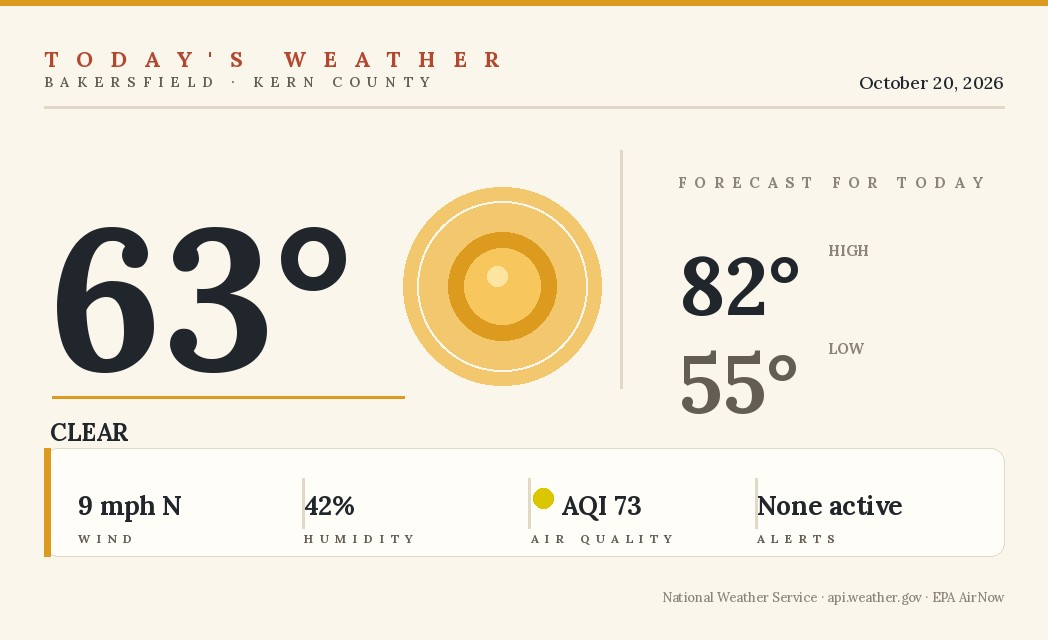
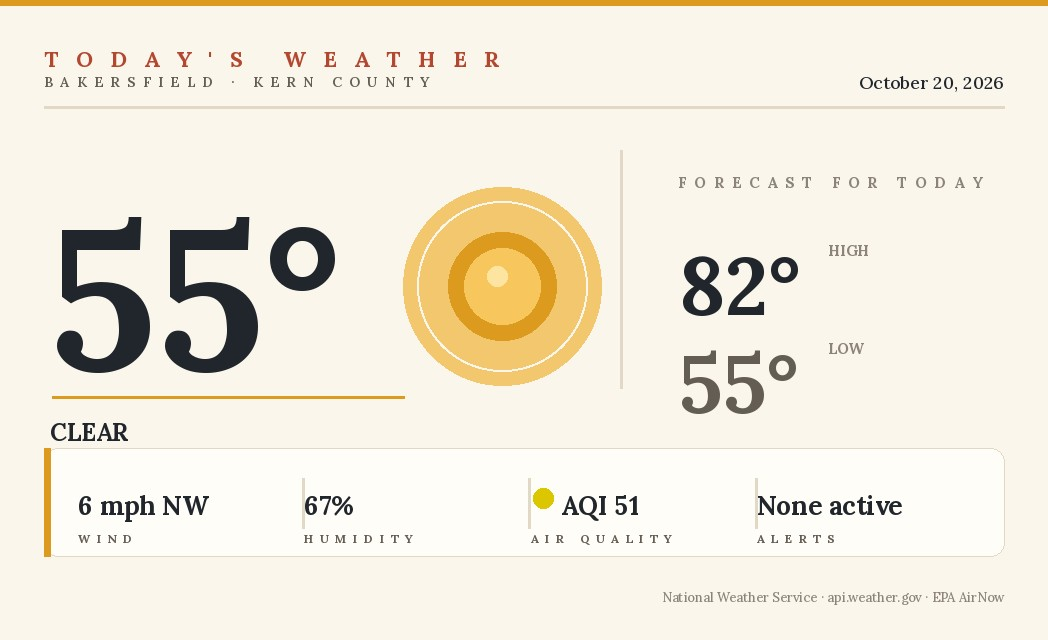
build: 2026-10-20 artifacts [skip ci]

diff --git a/email/2026-10-20/brief.html b/email/2026-10-20/brief.html
@@ -24,7 +24,7 @@
     <p style="margin:8px 0 2px;font-family:'Lora', Georgia, 'Times New Roman', serif;font-size:18px;color:#20262C"><a href="https://bakersfieldbrief.com/overnight/" style="color:#20262C;text-decoration:none">What happened overnight: Standoff</a></p>
     <p style="margin:2px 0 10px;font-family:'Public Sans', Arial, Helvetica, sans-serif;font-size:12px;color:#57504A">31 incidents tracked overnight · locations generalized &nbsp;<a href="https://bakersfieldbrief.com/overnight/" style="display:inline-block;background:#B3472F;color:#ffffff;font-family:'Barlow Condensed', 'Arial Narrow', Arial, sans-serif;font-size:12px;font-weight:600;letter-spacing:1px;text-transform:uppercase;text-decoration:none;padding:6px 14px;border-radius:4px">Full Report</a></p>
     <table role="presentation" width="100%" cellpadding="0" cellspacing="0" style="margin:12px 0 4px;background:#F1EADA;border:1px solid #E3DBC8;border-radius:6px"><tr><td style="padding:12px 14px 2px"><p style="margin:0;font-family:'Lora', Georgia, 'Times New Roman', serif;font-size:28px;line-height:1.15;color:#20262C"><strong>31</strong><span style="font-family:'Public Sans', Arial, Helvetica, sans-serif;font-size:14px;color:#57504A"> calls while Kern slept</span></p><p style="margin:3px 0 0;font-family:'Courier New', Courier, monospace;font-size:11px;color:#57504A">7 PM Sunday to 7 AM Monday, Oct 19</p><p style="margin:12px 0 0;font-family:'Barlow Condensed', 'Arial Narrow', Arial, sans-serif;font-size:11px;font-weight:600;letter-spacing:2px;text-transform:uppercase;color:#B3472F">Calls by type, most serious first</p><table role="presentation" width="100%" cellpadding="0" cellspacing="0" style="margin:4px 0 0"><tr><td style="padding:7px 0 7px;border-top:1px solid #E3DBC8;width:42px;font-family:'Lora', Georgia, 'Times New Roman', serif;font-size:16px;font-weight:700;color:#20262C;vertical-align:top">5</td><td style="padding:7px 0 7px;border-top:1px solid #E3DBC8;font-family:'Public Sans', Arial, Helvetica, sans-serif;font-size:13px;line-height:1.4;color:#20262C;vertical-align:top">Weapons and assaults</td></tr><tr><td style="padding:7px 0 7px;border-top:1px solid #E3DBC8;width:42px;font-family:'Lora', Georgia, 'Times New Roman', serif;font-size:16px;font-weight:700;color:#20262C;vertical-align:top">9</td><td style="padding:7px 0 7px;border-top:1px solid #E3DBC8;font-family:'Public Sans', Arial, Helvetica, sans-serif;font-size:13px;line-height:1.4;color:#20262C;vertical-align:top">Fires</td></tr><tr><td style="padding:7px 0 7px;border-top:1px solid #E3DBC8;width:42px;font-family:'Lora', Georgia, 'Times New Roman', serif;font-size:16px;font-weight:700;color:#20262C;vertical-align:top">9</td><td style="padding:7px 0 7px;border-top:1px solid #E3DBC8;font-family:'Public Sans', Arial, Helvetica, sans-serif;font-size:13px;line-height:1.4;color:#20262C;vertical-align:top">Crashes and traffic</td></tr><tr><td style="padding:7px 0 7px;border-top:1px solid #E3DBC8;width:42px;font-family:'Lora', Georgia, 'Times New Roman', serif;font-size:16px;font-weight:700;color:#20262C;vertical-align:top">2</td><td style="padding:7px 0 7px;border-top:1px solid #E3DBC8;font-family:'Public Sans', Arial, Helvetica, sans-serif;font-size:13px;line-height:1.4;color:#20262C;vertical-align:top">Medical and overdose</td></tr><tr><td style="padding:7px 0 7px;border-top:1px solid #E3DBC8;width:42px;font-family:'Lora', Georgia, 'Times New Roman', serif;font-size:16px;font-weight:700;color:#20262C;vertical-align:top">1</td><td style="padding:7px 0 7px;border-top:1px solid #E3DBC8;font-family:'Public Sans', Arial, Helvetica, sans-serif;font-size:13px;line-height:1.4;color:#20262C;vertical-align:top">Suspicious activity</td></tr><tr><td style="padding:7px 0 7px;border-top:1px solid #E3DBC8;width:42px;font-family:'Lora', Georgia, 'Times New Roman', serif;font-size:16px;font-weight:700;color:#20262C;vertical-align:top">5</td><td style="padding:7px 0 7px;border-top:1px solid #E3DBC8;font-family:'Public Sans', Arial, Helvetica, sans-serif;font-size:13px;line-height:1.4;color:#20262C;vertical-align:top">Other calls<br><span style="font-size:11px;color:#57504A">2 court order, 1 standoff, 1 airport security, 1 incident</span></td></tr></table><p style="margin:12px 0 10px"><a href="https://bakersfieldbrief.com/overnight/" style="display:inline-block;background:#B3472F;color:#ffffff;font-family:'Barlow Condensed', 'Arial Narrow', Arial, sans-serif;font-size:12px;font-weight:600;letter-spacing:1px;text-transform:uppercase;text-decoration:none;padding:8px 16px;border-radius:4px">Read the full overnight log</a></p></td></tr></table>
-    
+    <p style="margin:6px 0 0;font-family:'Public Sans', Arial, Helvetica, sans-serif;font-size:13px;line-height:1.55;color:#20262C">The night&#x27;s most serious call ended without anyone getting hurt. Officers responded to a report of a man holding a knife in his left hand who would not cooperate with commands. He wasn&#x27;t advancing on anyone, but he stayed armed and refused to put the weapon down, so supervisors set up command and held the scene instead of moving in.</p><p style="margin:6px 0 0;font-family:'Public Sans', Arial, Helvetica, sans-serif;font-size:13px;line-height:1.55;color:#20262C">About 35 minutes later, officers closed in and took him into custody. Charges including assault with a deadly weapon, criminal threats and child endangerment were requested. Earlier in the evening, airport police cleared the terminal at Meadows Field after a report of a possible firearm on the property.</p><p style="margin:6px 0 0;font-family:'Public Sans', Arial, Helvetica, sans-serif;font-size:13px;line-height:1.55;color:#20262C">A man in a black hoodie and black shorts was seen heading toward the employee parking area below the front of the terminal. Officers held the terminal while they searched and reported all channels clear within a few minutes. Elsewhere around the county, a caller on Pond Road reported about five people firing guns into the air, with three vehicles described leaving the area — a gray Volkswagen, a black truck and a red Chevrolet.</p><p style="margin:6px 0 0;font-family:'Public Sans', Arial, Helvetica, sans-serif;font-size:13px;line-height:1.55;color:#20262C">Crews went to Bliss and Texas streets for a mini-bike against a vehicle with possibly two patients; Engine 6 found one person down in the roadway and staged incoming units while medics went to work. On Center Street in east Bakersfield, a caller reported a man hitting windows with a machete he kept in his vehicle; he was described as 35 years old and believed to be under the influence of alcohol. Fires kept crews moving all night — a U-Haul on Lake Street, a vehicle on Mayer Avenue, a patch of grass and brush larger than a car near Alfred Harrell Highway, and a structure fire call after 4 a.m.</p><p style="margin:6px 0 0;font-family:'Public Sans', Arial, Helvetica, sans-serif;font-size:13px;line-height:1.55;color:#20262C">The log also included a pair of court order calls that turned up no violations, a two-vehicle crash that left the roadway blocked, a Nissan crash on Harris Road, an assault on California Avenue involving a victim in a wheelchair, and a suspected DUI driver who tried to run from a crash before witnesses held him on the sidewalk.</p>
   </td></tr></table>
 </td></tr>
 
@@ -33,7 +33,7 @@
   <table role="presentation" width="100%" cellpadding="0" cellspacing="0" style="margin:14px 0;background:#FFFDF7;border:1px solid #E3DBC8;border-left:4px solid #DC9A1F;border-radius:6px;box-shadow:0 1px 2px rgba(32,38,28,.07), 0 8px 24px rgba(32,38,28,.06)"><tr><td style="padding:14px 16px">
     <table role="presentation" cellpadding="0" cellspacing="0" style="margin:0 0 6px"><tr><td style="width:26px;border-top:2px solid #DC9A1F;font-size:1px;line-height:1px">&nbsp;</td><td style="padding-left:8px;font-family:'Barlow Condensed', 'Arial Narrow', Arial, sans-serif;font-size:14px;font-weight:600;letter-spacing:2px;text-transform:uppercase;color:#B3472F">Today&#x27;s Weather</td></tr></table>
     <table role="presentation" width="100%" cellpadding="0" cellspacing="0" style="margin:8px 0 12px;border:1px solid #E3DBC8;border-radius:6px;overflow:hidden"><tr><td><img src="https://bakersfieldbrief.com/assets/img/weather-card.jpg" width="100%" alt="Today's weather for Bakersfield &amp; Kern County" style="display:block;width:100%;height:auto;border:0"></td></tr></table>
-    <p style="margin:0;font-family:'Lora', Georgia, 'Times New Roman', serif;font-size:15px;line-height:1.5;color:#20262C">Expect a high near 82° and a low around 55° tonight. It is currently 63° at Meadows Field (KBFL). No active weather alerts for Kern County. Air quality is 73 — moderate.</p>
+    <p style="margin:0;font-family:'Lora', Georgia, 'Times New Roman', serif;font-size:15px;line-height:1.5;color:#20262C">Expect a high near 82 degrees today and a low around 55 tonight. It&#x27;s currently 55 at Meadows Field. No active weather alerts are in effect for Kern County, and air quality is moderate at 51 — a decent day to be outside, though sensitive folks may want to keep an eye on it as the afternoon warms up. No active fires are being reported in the county this morning.</p>
   </td></tr></table>
 </td></tr>
 
@@ -42,7 +42,7 @@
 <tr><td style="padding:2px 20px">
   <table role="presentation" width="100%" cellpadding="0" cellspacing="0" style="margin:14px 0;background:#FFFDF7;border:1px solid #E3DBC8;border-left:4px solid #B3472F;border-radius:6px;box-shadow:0 1px 2px rgba(32,38,28,.07), 0 8px 24px rgba(32,38,28,.06)"><tr><td style="padding:14px 16px">
     <table role="presentation" cellpadding="0" cellspacing="0" style="margin:0 0 6px"><tr><td style="width:26px;border-top:2px solid #DC9A1F;font-size:1px;line-height:1px">&nbsp;</td><td style="padding-left:8px;font-family:'Barlow Condensed', 'Arial Narrow', Arial, sans-serif;font-size:14px;font-weight:600;letter-spacing:2px;text-transform:uppercase;color:#B3472F">Something Good</td></tr></table>
-    <p style="margin:6px 0 0;font-family:'Public Sans', Arial, Helvetica, sans-serif;font-size:13px;line-height:1.55;color:#20262C">A bright spot this week: <strong>Bluey&#x27;s Big Play</strong> at Mechanics Bank Arena on Tue, Oct 27.</p>
+    <p style="margin:6px 0 0;font-family:'Public Sans', Arial, Helvetica, sans-serif;font-size:13px;line-height:1.55;color:#20262C">Honor Flight Kern County&#x27;s return to Meadows Field was the kind of homecoming worth pausing for — veterans stepping off the plane to friends, family and community members who turned out to welcome them back. For Lowell Tallon, the trip doubled as a family reunion in the capital, with both his son and daughter alongside him at the memorials. After a cancellation that stung the whole program, this one landed exactly the way it should.</p>
   </td></tr></table>
 </td></tr>
 

diff --git a/email/latest/brief.html b/email/latest/brief.html
@@ -24,7 +24,7 @@
     <p style="margin:8px 0 2px;font-family:'Lora', Georgia, 'Times New Roman', serif;font-size:18px;color:#20262C"><a href="https://bakersfieldbrief.com/overnight/" style="color:#20262C;text-decoration:none">What happened overnight: Standoff</a></p>
     <p style="margin:2px 0 10px;font-family:'Public Sans', Arial, Helvetica, sans-serif;font-size:12px;color:#57504A">31 incidents tracked overnight · locations generalized &nbsp;<a href="https://bakersfieldbrief.com/overnight/" style="display:inline-block;background:#B3472F;color:#ffffff;font-family:'Barlow Condensed', 'Arial Narrow', Arial, sans-serif;font-size:12px;font-weight:600;letter-spacing:1px;text-transform:uppercase;text-decoration:none;padding:6px 14px;border-radius:4px">Full Report</a></p>
     <table role="presentation" width="100%" cellpadding="0" cellspacing="0" style="margin:12px 0 4px;background:#F1EADA;border:1px solid #E3DBC8;border-radius:6px"><tr><td style="padding:12px 14px 2px"><p style="margin:0;font-family:'Lora', Georgia, 'Times New Roman', serif;font-size:28px;line-height:1.15;color:#20262C"><strong>31</strong><span style="font-family:'Public Sans', Arial, Helvetica, sans-serif;font-size:14px;color:#57504A"> calls while Kern slept</span></p><p style="margin:3px 0 0;font-family:'Courier New', Courier, monospace;font-size:11px;color:#57504A">7 PM Sunday to 7 AM Monday, Oct 19</p><p style="margin:12px 0 0;font-family:'Barlow Condensed', 'Arial Narrow', Arial, sans-serif;font-size:11px;font-weight:600;letter-spacing:2px;text-transform:uppercase;color:#B3472F">Calls by type, most serious first</p><table role="presentation" width="100%" cellpadding="0" cellspacing="0" style="margin:4px 0 0"><tr><td style="padding:7px 0 7px;border-top:1px solid #E3DBC8;width:42px;font-family:'Lora', Georgia, 'Times New Roman', serif;font-size:16px;font-weight:700;color:#20262C;vertical-align:top">5</td><td style="padding:7px 0 7px;border-top:1px solid #E3DBC8;font-family:'Public Sans', Arial, Helvetica, sans-serif;font-size:13px;line-height:1.4;color:#20262C;vertical-align:top">Weapons and assaults</td></tr><tr><td style="padding:7px 0 7px;border-top:1px solid #E3DBC8;width:42px;font-family:'Lora', Georgia, 'Times New Roman', serif;font-size:16px;font-weight:700;color:#20262C;vertical-align:top">9</td><td style="padding:7px 0 7px;border-top:1px solid #E3DBC8;font-family:'Public Sans', Arial, Helvetica, sans-serif;font-size:13px;line-height:1.4;color:#20262C;vertical-align:top">Fires</td></tr><tr><td style="padding:7px 0 7px;border-top:1px solid #E3DBC8;width:42px;font-family:'Lora', Georgia, 'Times New Roman', serif;font-size:16px;font-weight:700;color:#20262C;vertical-align:top">9</td><td style="padding:7px 0 7px;border-top:1px solid #E3DBC8;font-family:'Public Sans', Arial, Helvetica, sans-serif;font-size:13px;line-height:1.4;color:#20262C;vertical-align:top">Crashes and traffic</td></tr><tr><td style="padding:7px 0 7px;border-top:1px solid #E3DBC8;width:42px;font-family:'Lora', Georgia, 'Times New Roman', serif;font-size:16px;font-weight:700;color:#20262C;vertical-align:top">2</td><td style="padding:7px 0 7px;border-top:1px solid #E3DBC8;font-family:'Public Sans', Arial, Helvetica, sans-serif;font-size:13px;line-height:1.4;color:#20262C;vertical-align:top">Medical and overdose</td></tr><tr><td style="padding:7px 0 7px;border-top:1px solid #E3DBC8;width:42px;font-family:'Lora', Georgia, 'Times New Roman', serif;font-size:16px;font-weight:700;color:#20262C;vertical-align:top">1</td><td style="padding:7px 0 7px;border-top:1px solid #E3DBC8;font-family:'Public Sans', Arial, Helvetica, sans-serif;font-size:13px;line-height:1.4;color:#20262C;vertical-align:top">Suspicious activity</td></tr><tr><td style="padding:7px 0 7px;border-top:1px solid #E3DBC8;width:42px;font-family:'Lora', Georgia, 'Times New Roman', serif;font-size:16px;font-weight:700;color:#20262C;vertical-align:top">5</td><td style="padding:7px 0 7px;border-top:1px solid #E3DBC8;font-family:'Public Sans', Arial, Helvetica, sans-serif;font-size:13px;line-height:1.4;color:#20262C;vertical-align:top">Other calls<br><span style="font-size:11px;color:#57504A">2 court order, 1 standoff, 1 airport security, 1 incident</span></td></tr></table><p style="margin:12px 0 10px"><a href="https://bakersfieldbrief.com/overnight/" style="display:inline-block;background:#B3472F;color:#ffffff;font-family:'Barlow Condensed', 'Arial Narrow', Arial, sans-serif;font-size:12px;font-weight:600;letter-spacing:1px;text-transform:uppercase;text-decoration:none;padding:8px 16px;border-radius:4px">Read the full overnight log</a></p></td></tr></table>
-    
+    <p style="margin:6px 0 0;font-family:'Public Sans', Arial, Helvetica, sans-serif;font-size:13px;line-height:1.55;color:#20262C">The night&#x27;s most serious call ended without anyone getting hurt. Officers responded to a report of a man holding a knife in his left hand who would not cooperate with commands. He wasn&#x27;t advancing on anyone, but he stayed armed and refused to put the weapon down, so supervisors set up command and held the scene instead of moving in.</p><p style="margin:6px 0 0;font-family:'Public Sans', Arial, Helvetica, sans-serif;font-size:13px;line-height:1.55;color:#20262C">About 35 minutes later, officers closed in and took him into custody. Charges including assault with a deadly weapon, criminal threats and child endangerment were requested. Earlier in the evening, airport police cleared the terminal at Meadows Field after a report of a possible firearm on the property.</p><p style="margin:6px 0 0;font-family:'Public Sans', Arial, Helvetica, sans-serif;font-size:13px;line-height:1.55;color:#20262C">A man in a black hoodie and black shorts was seen heading toward the employee parking area below the front of the terminal. Officers held the terminal while they searched and reported all channels clear within a few minutes. Elsewhere around the county, a caller on Pond Road reported about five people firing guns into the air, with three vehicles described leaving the area — a gray Volkswagen, a black truck and a red Chevrolet.</p><p style="margin:6px 0 0;font-family:'Public Sans', Arial, Helvetica, sans-serif;font-size:13px;line-height:1.55;color:#20262C">Crews went to Bliss and Texas streets for a mini-bike against a vehicle with possibly two patients; Engine 6 found one person down in the roadway and staged incoming units while medics went to work. On Center Street in east Bakersfield, a caller reported a man hitting windows with a machete he kept in his vehicle; he was described as 35 years old and believed to be under the influence of alcohol. Fires kept crews moving all night — a U-Haul on Lake Street, a vehicle on Mayer Avenue, a patch of grass and brush larger than a car near Alfred Harrell Highway, and a structure fire call after 4 a.m.</p><p style="margin:6px 0 0;font-family:'Public Sans', Arial, Helvetica, sans-serif;font-size:13px;line-height:1.55;color:#20262C">The log also included a pair of court order calls that turned up no violations, a two-vehicle crash that left the roadway blocked, a Nissan crash on Harris Road, an assault on California Avenue involving a victim in a wheelchair, and a suspected DUI driver who tried to run from a crash before witnesses held him on the sidewalk.</p>
   </td></tr></table>
 </td></tr>
 
@@ -33,7 +33,7 @@
   <table role="presentation" width="100%" cellpadding="0" cellspacing="0" style="margin:14px 0;background:#FFFDF7;border:1px solid #E3DBC8;border-left:4px solid #DC9A1F;border-radius:6px;box-shadow:0 1px 2px rgba(32,38,28,.07), 0 8px 24px rgba(32,38,28,.06)"><tr><td style="padding:14px 16px">
     <table role="presentation" cellpadding="0" cellspacing="0" style="margin:0 0 6px"><tr><td style="width:26px;border-top:2px solid #DC9A1F;font-size:1px;line-height:1px">&nbsp;</td><td style="padding-left:8px;font-family:'Barlow Condensed', 'Arial Narrow', Arial, sans-serif;font-size:14px;font-weight:600;letter-spacing:2px;text-transform:uppercase;color:#B3472F">Today&#x27;s Weather</td></tr></table>
     <table role="presentation" width="100%" cellpadding="0" cellspacing="0" style="margin:8px 0 12px;border:1px solid #E3DBC8;border-radius:6px;overflow:hidden"><tr><td><img src="https://bakersfieldbrief.com/assets/img/weather-card.jpg" width="100%" alt="Today's weather for Bakersfield &amp; Kern County" style="display:block;width:100%;height:auto;border:0"></td></tr></table>
-    <p style="margin:0;font-family:'Lora', Georgia, 'Times New Roman', serif;font-size:15px;line-height:1.5;color:#20262C">Expect a high near 82° and a low around 55° tonight. It is currently 63° at Meadows Field (KBFL). No active weather alerts for Kern County. Air quality is 73 — moderate.</p>
+    <p style="margin:0;font-family:'Lora', Georgia, 'Times New Roman', serif;font-size:15px;line-height:1.5;color:#20262C">Expect a high near 82 degrees today and a low around 55 tonight. It&#x27;s currently 55 at Meadows Field. No active weather alerts are in effect for Kern County, and air quality is moderate at 51 — a decent day to be outside, though sensitive folks may want to keep an eye on it as the afternoon warms up. No active fires are being reported in the county this morning.</p>
   </td></tr></table>
 </td></tr>
 
@@ -42,7 +42,7 @@
 <tr><td style="padding:2px 20px">
   <table role="presentation" width="100%" cellpadding="0" cellspacing="0" style="margin:14px 0;background:#FFFDF7;border:1px solid #E3DBC8;border-left:4px solid #B3472F;border-radius:6px;box-shadow:0 1px 2px rgba(32,38,28,.07), 0 8px 24px rgba(32,38,28,.06)"><tr><td style="padding:14px 16px">
     <table role="presentation" cellpadding="0" cellspacing="0" style="margin:0 0 6px"><tr><td style="width:26px;border-top:2px solid #DC9A1F;font-size:1px;line-height:1px">&nbsp;</td><td style="padding-left:8px;font-family:'Barlow Condensed', 'Arial Narrow', Arial, sans-serif;font-size:14px;font-weight:600;letter-spacing:2px;text-transform:uppercase;color:#B3472F">Something Good</td></tr></table>
-    <p style="margin:6px 0 0;font-family:'Public Sans', Arial, Helvetica, sans-serif;font-size:13px;line-height:1.55;color:#20262C">A bright spot this week: <strong>Bluey&#x27;s Big Play</strong> at Mechanics Bank Arena on Tue, Oct 27.</p>
+    <p style="margin:6px 0 0;font-family:'Public Sans', Arial, Helvetica, sans-serif;font-size:13px;line-height:1.55;color:#20262C">Honor Flight Kern County&#x27;s return to Meadows Field was the kind of homecoming worth pausing for — veterans stepping off the plane to friends, family and community members who turned out to welcome them back. For Lowell Tallon, the trip doubled as a family reunion in the capital, with both his son and daughter alongside him at the memorials. After a cancellation that stung the whole program, this one landed exactly the way it should.</p>
   </td></tr></table>
 </td></tr>
 
